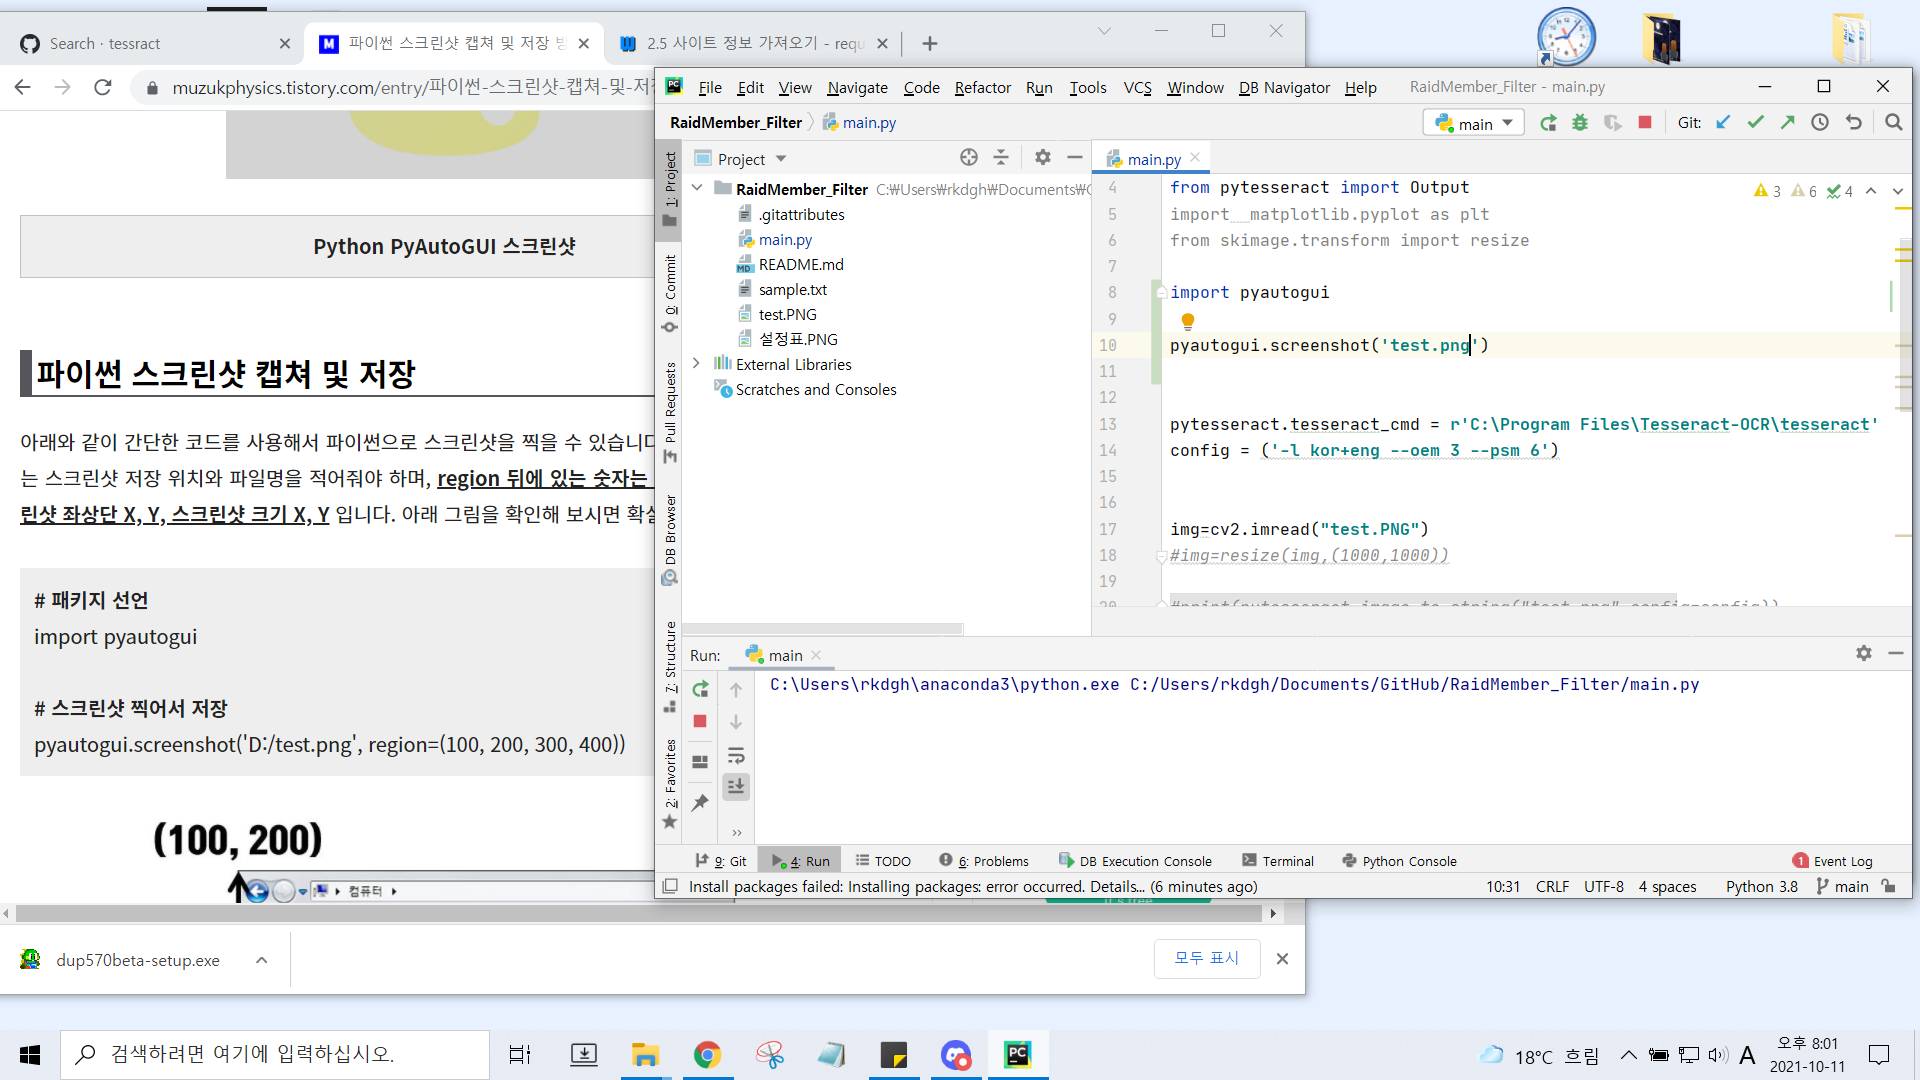
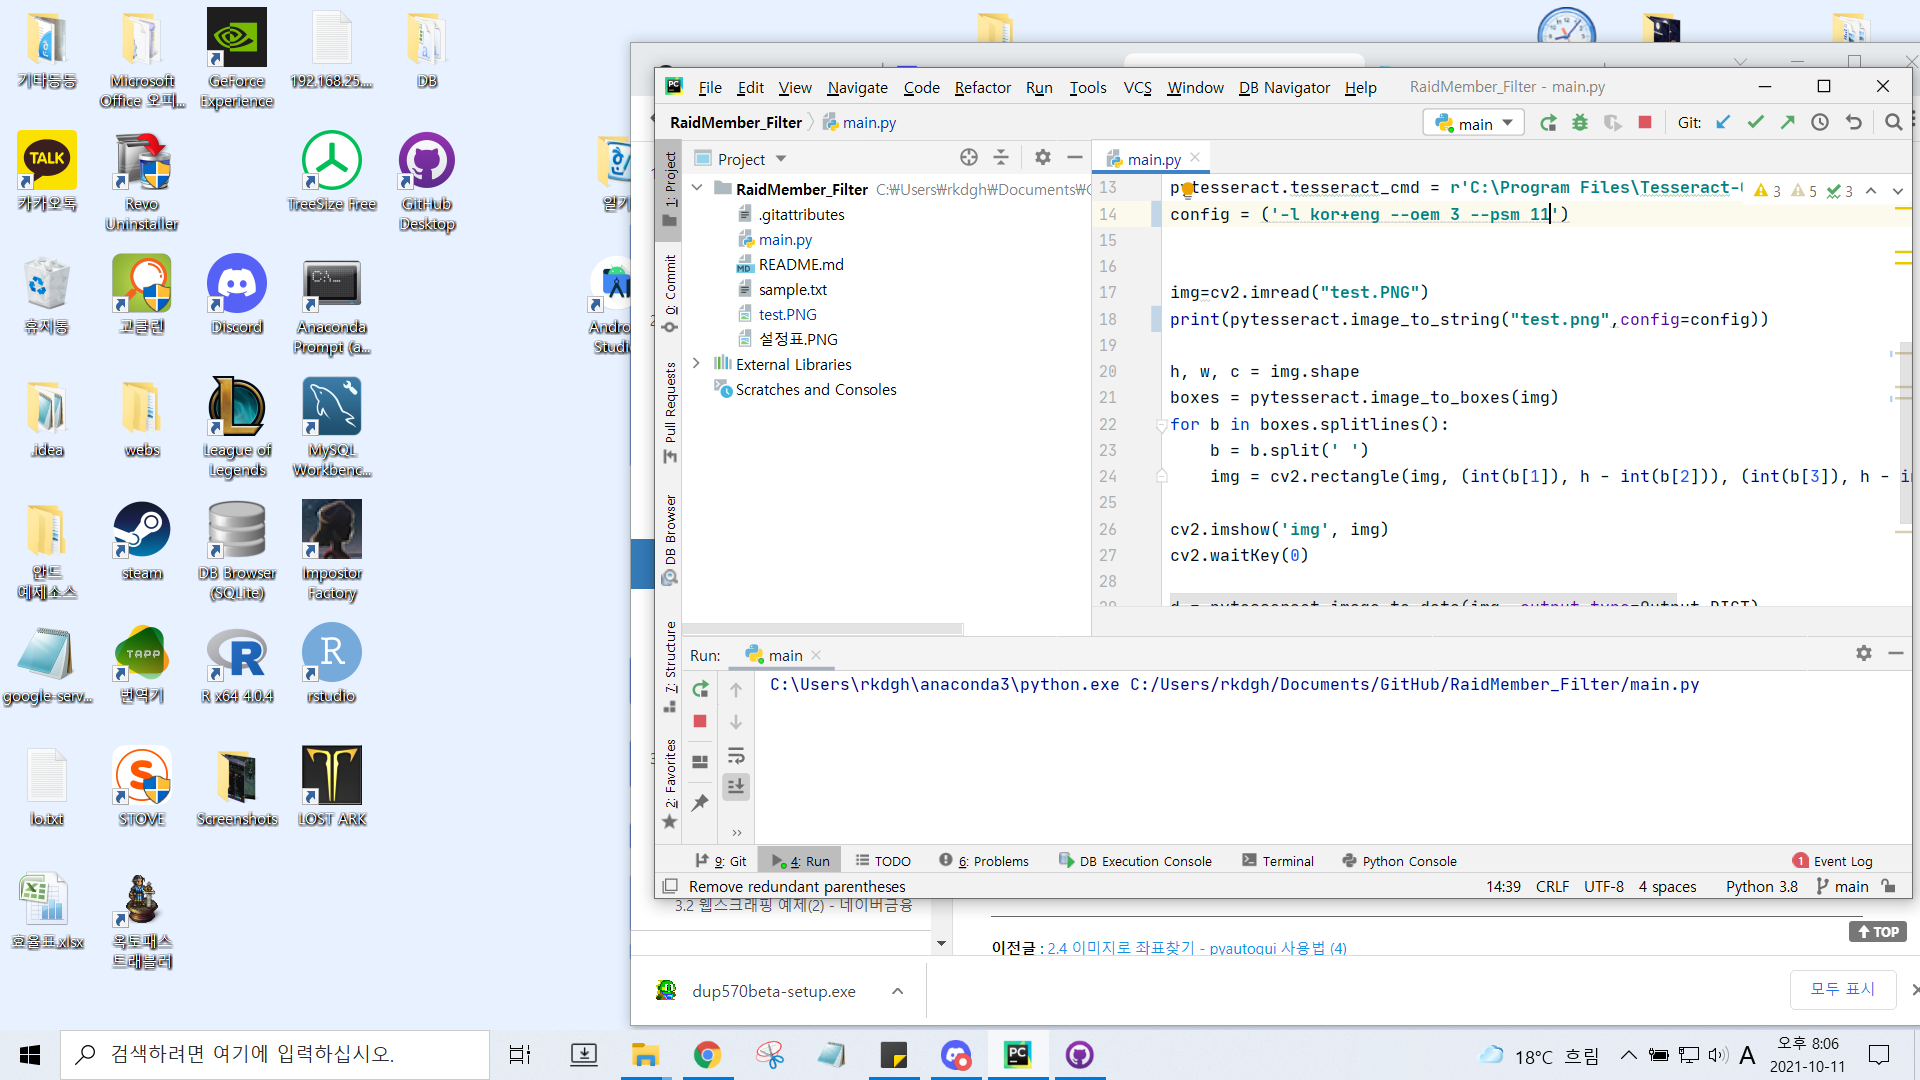
11

diff --git a/main.py b/main.py
@@ -8,16 +8,18 @@ from skimage.transform import resize
 import pyautogui
 
 pyautogui.screenshot('test.png')
+#1.  pyautogui를 이용하여 프로그램을 시작하고 클릭을 하면 그 위치를 기반으로 글자 인식
+#2. 알맞은 크기의 박스를 생성하여 배치하면 그곳에 있는(세부설정으로 닉네임 나오는 구간을 설정)텍스트만 인식
+
+
 
 
 pytesseract.tesseract_cmd = r'C:\Program Files\Tesseract-OCR\tesseract'
-config = ('-l kor+eng --oem 3 --psm 6')
+config = ('-l kor+eng --oem 3 --psm 11')
 
 
 img=cv2.imread("test.PNG")
-#img=resize(img,(1000,1000))
-
-#print(pytesseract.image_to_string("test.png",config=config))
+print(pytesseract.image_to_string("test.png",config=config))
 
 h, w, c = img.shape
 boxes = pytesseract.image_to_boxes(img)
